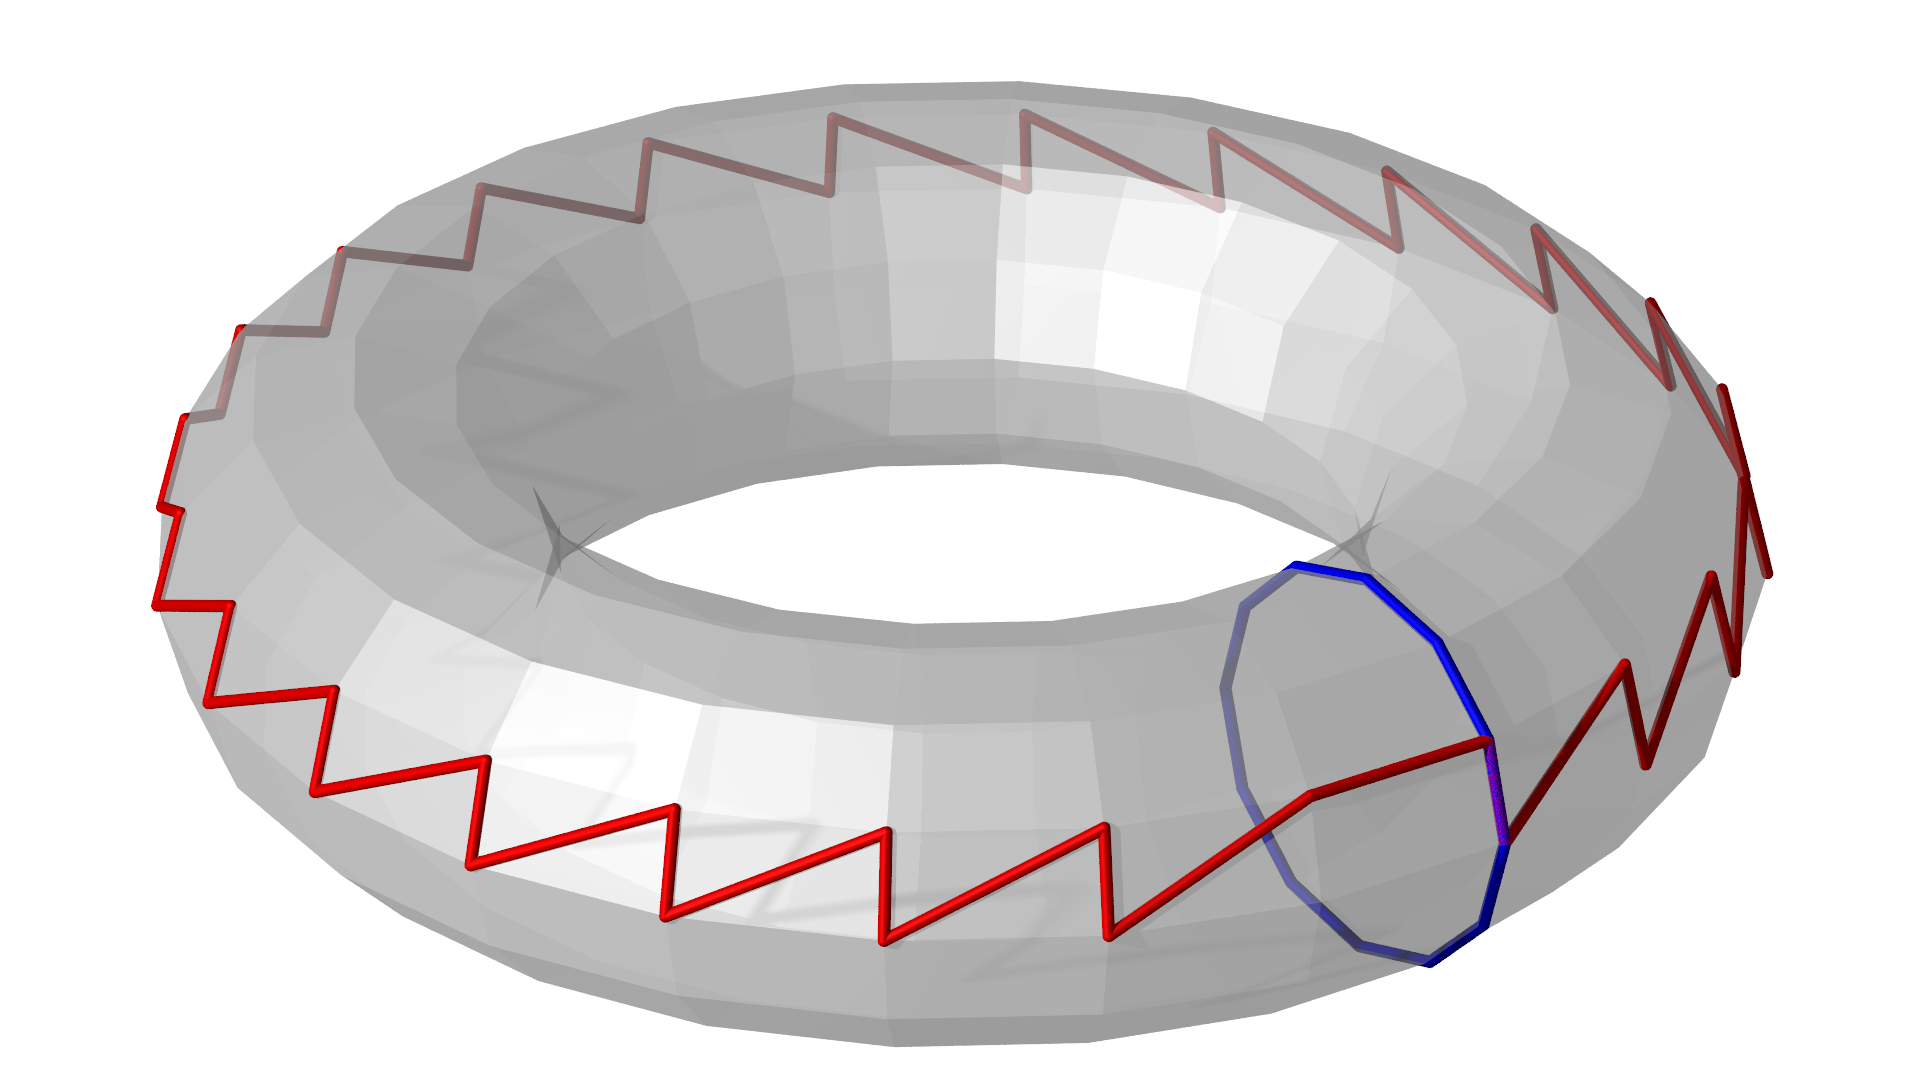
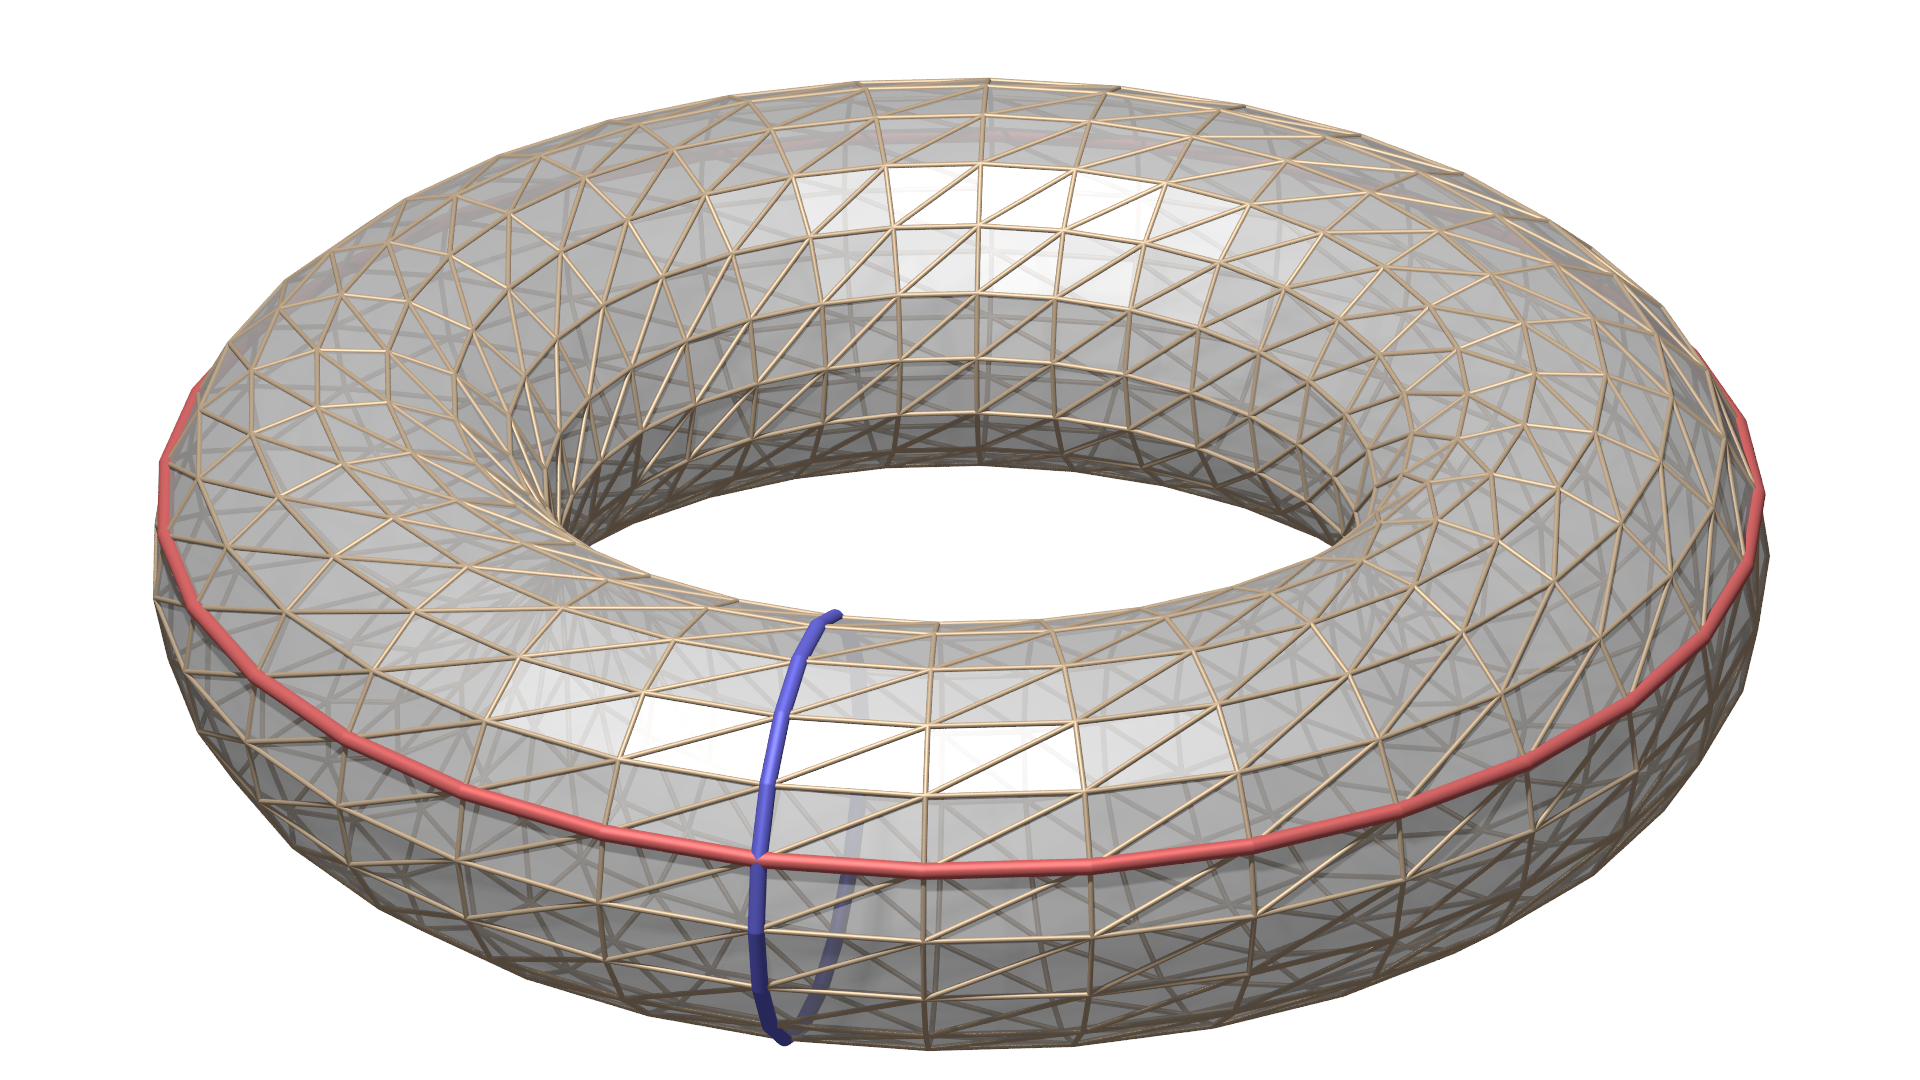
torus perfektioniert

diff --git a/buch/chapters/95-homologie/basiswahl.tex b/buch/chapters/95-homologie/basiswahl.tex
@@ -664,32 +664,6 @@ liegenden Vektoren ausdrücken lassen.
 Die auszuwählenden Vektoren sind daher genau diejenigen, die für
 $\mathcal{Z}_k'$ ausgewählt werden müssen.
 
-Um den Algorithmus durchzuführen, bilden wir daher das Gauss-Tableau
-in Abbildung~\ref{buch:homologie:beispiel:gausstableau},
-bestehend aus den Vektoren $\partial_2e_i^{(2)}$ in den ersten 9
-Zeilen und den Zyklen $z_1,\dots,z_{13}$ in den folgenden 13 Zeilen.
-Das reduzierte Tableau nach der Vorwärtsreduktion ist in
-Abbildung~\ref{buch:homologie:beispiel:gausstableaureduziert}
-dargestellt, amn erkennt, dass die Zyklen $z_1$ bis $z_4$, $z_7$ und $z_8$,
-$z_9$ und $z_{10}$ sowie $z_{13}$ weggelassen werden müssen.
-Es bleiben die folgenden Zyklen:
-\begin{center}
-\begin{tabular}{>{$}l<{$}l}
-\text{Zyklus}&Eigenschaft\\
-\hline
-z_5   &Zyklus umschliesst das kleine weisse Dreieck links unten\\
-z_6   &Zyklus umschliesst das kleine weisse Dreieck rechts unten\\
-z_9   &Zyklus umschliesst das grosse weisse Dreieck\\
-z_{12}&Zyklus umschliesst das kleine weisse Dreicke oben\\
-\hline
-\end{tabular}
-\end{center}
-Die Zyklen, die nach der Reduktion übrig bleiben, sind in
-Abbildung~\ref{buch:homologie:beispiel:homoclasses} zusammengestellt.
-Jede solche Klasse entspricht genau einem der ``Löcher'', der weissen
-Dreiecke.
-Die Homologie kann man also als eine exakte Version der Idee eines
-Vektorraums erzeugt von den ``Löchern'' eines Polygons verstehen.
 
 \begin{figure}
 \centering
@@ -804,6 +778,43 @@ also genau ein weisses Dreieck.
 \label{buch:homologie:beispiel:homoclasses}}
 \end{figure}
 
+\begin{figure}
+\centering
+\includegraphics[width=\textwidth]{chapters/95-homologie/torus/torus.jpg}
+\caption{Basis der Homologiegruppen eines Torus $T^2$.
+Der Algorithmus findet zwei Basisklassen für $H(T^2)$, der eine Zyklus
+geht durch das ``Loch'' des Torus (blau), der andere folgt mehr oder
+weniger dem Äquator.
+\label{buch:homologie:fig:torus}}
+\end{figure}
+
+Um den Algorithmus durchzuführen, bilden wir daher das Gauss-Tableau
+in Abbildung~\ref{buch:homologie:beispiel:gausstableau},
+bestehend aus den Vektoren $\partial_2e_i^{(2)}$ in den ersten 9
+Zeilen und den Zyklen $z_1,\dots,z_{13}$ in den folgenden 13 Zeilen.
+Das reduzierte Tableau nach der Vorwärtsreduktion ist in
+Abbildung~\ref{buch:homologie:beispiel:gausstableaureduziert}
+dargestellt, amn erkennt, dass die Zyklen $z_1$ bis $z_4$, $z_7$ und $z_8$,
+$z_9$ und $z_{10}$ sowie $z_{13}$ weggelassen werden müssen.
+Es bleiben die folgenden Zyklen:
+\begin{center}
+\begin{tabular}{>{$}l<{$}l}
+\text{Zyklus}&Eigenschaft\\
+\hline
+z_5   &Zyklus umschliesst das kleine weisse Dreieck links unten\\
+z_6   &Zyklus umschliesst das kleine weisse Dreieck rechts unten\\
+z_9   &Zyklus umschliesst das grosse weisse Dreieck\\
+z_{12}&Zyklus umschliesst das kleine weisse Dreicke oben\\
+\hline
+\end{tabular}
+\end{center}
+Die Zyklen, die nach der Reduktion übrig bleiben, sind in
+Abbildung~\ref{buch:homologie:beispiel:homoclasses} zusammengestellt.
+Jede solche Klasse entspricht genau einem der ``Löcher'', der weissen
+Dreiecke.
+Die Homologie kann man also als eine exakte Version der Idee eines
+Vektorraums erzeugt von den ``Löchern'' eines Polygons verstehen.
+
 \subsubsection{Basis von $H_k(C)$}
 Die im vorangegangenen Abschnitt konstruierte Basis kann jetzt auch
 dazu verwendet werden, eine Basis von $H_k(C)$ zu finden.
@@ -815,3 +826,14 @@ von $H_k(C)$.
 Die von obigem Algorithmus ausgewählten Zyklen bilden also automatisch
 eine Basis von Zyklen, die nicht Rand irgend einer Kette in $C_{k+1}$
 sein können.
+
+
+Führt man das beschriebene Verfahren für einen zweidimensionalen Torus $T^2$ durch,
+findet es die beiden in Abbildung~\ref{buch:homologie:fig:torus} dargestellten
+Zyklen.
+Sie zeigen schön, wie die Homologieklassen die beiden Arten von ``Löchern''
+erkennen.
+Zum einen ist da der blaue Zyklus, der das ``Loch'' im inneren des Torus
+umschliesst.
+Der rote Zyklus dagegen folgt mehr oder weniger dem Äquator und repräsentiert
+damit die ``Ringform'' des Torus.

diff --git a/buch/chapters/95-homologie/torus/torus.m b/buch/chapters/95-homologie/torus/torus.m
@@ -5,9 +5,9 @@
 #
 
 global n;
-n = 24;
+n = 32;
 global m;
-m = 12;
+m = 18;
 global R;
 R = 3;
 global r;
@@ -51,10 +51,10 @@ coordinates
 function insert_edges(ll, lr, ul, ur)
 	global edges;
 	k = 3 * ll + 1;
-	edges(k,1) = ll;
-	edges(k,2) = lr;
 	edges(k+1,1) = ll;
-	edges(k+1,2) = ur;
+	edges(k+1,2) = lr;
+	edges(k+0,1) = ll;
+	edges(k+0,2) = ur;
 	edges(k+2,1) = ll;
 	edges(k+2,2) = ul;
 endfunction
@@ -326,6 +326,21 @@ for i = (1:nedges)
 		fprintf(fn, "<%.4f,%.4f,%.4f>, r }\n", punkt2(1,1), punkt2(1,3), punkt2(1,2));
 		fprintf(fn, "\tsphere { <%.4f,%.4f,%.4f>, r }\n", punkt1(1,1), punkt1(1,3), punkt1(1,2));
 	endif
+endfor
+fprintf(fn, "    }\n");
+fprintf(fn, "#end\n");
+
+fprintf(fn, "#macro triangulation()\n");
+fprintf(fn, "    union {\n");
+for i = (1:nvertices)
+	punkt = coordinates(i,:);
+	fprintf(fn, "\tsphere { <%.4f,%.4f,%.4f>, r/3 }\n", punkt(1,1), punkt(1,3), punkt(1,2));
+endfor
+for i = (1:nedges)
+	punkt1 = coordinates(edges(i,1)+1,:);
+	punkt2 = coordinates(edges(i,2)+1,:);
+	fprintf(fn, "\tcylinder { <%.4f,%.4f,%.4f>, ", punkt1(1,1), punkt1(1,3), punkt1(1,2));
+	fprintf(fn, "<%.4f,%.4f,%.4f>, r/3 }\n", punkt2(1,1), punkt2(1,3), punkt2(1,2));
 endfor
 fprintf(fn, "    }\n");
 fprintf(fn, "#end\n");
